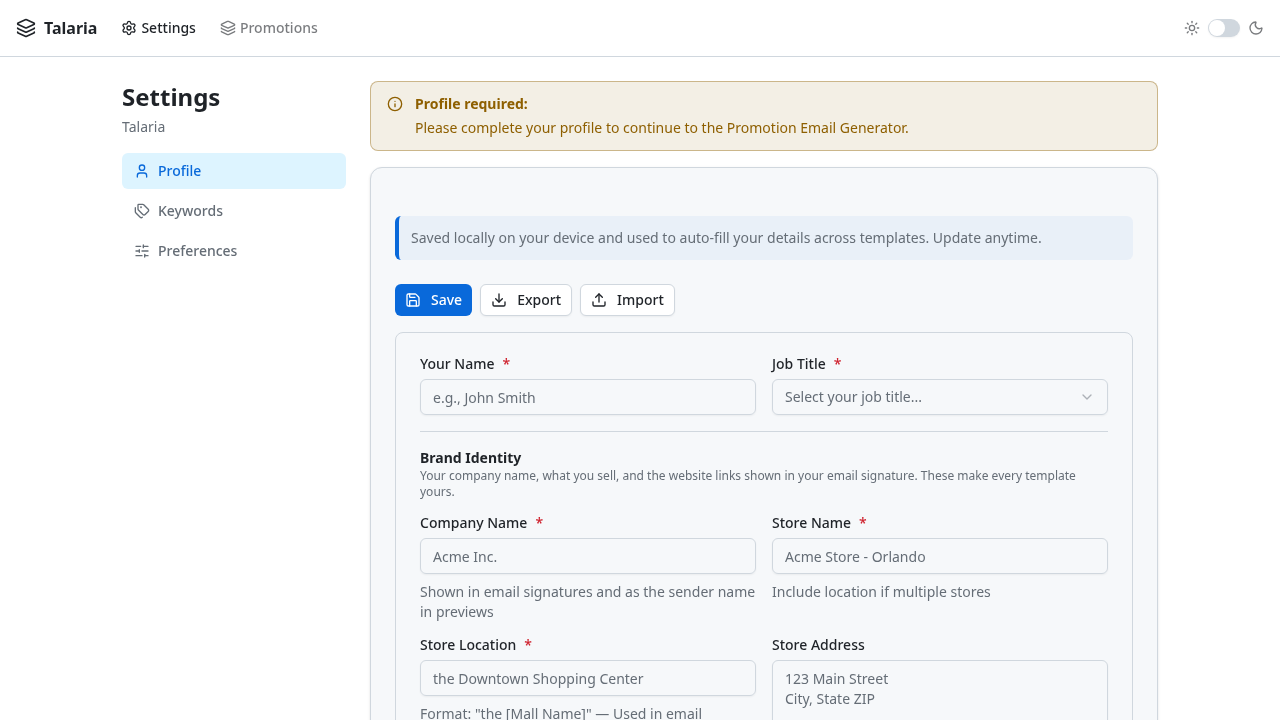
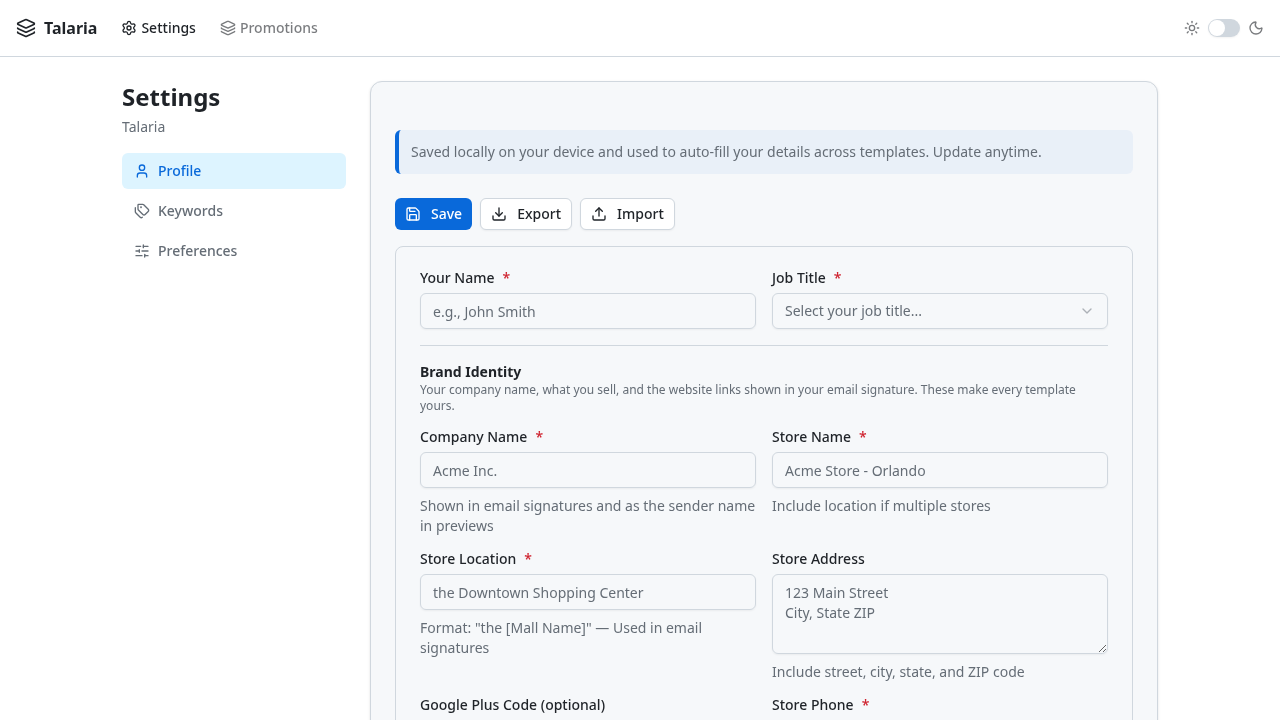
fix(screenshots): seed a profile so the promotion page renders in captures
The promotion builder is behind a profile gate: with no `userProfile` key
in localStorage, PromotionPage redirects to /settings, so both published
screenshots were byte-identical captures of the settings page.

Capture /settings first (empty defaults, the honest fresh-install view),
then seed a clearly fictional profile via addInitScript and capture
/promotion. Assert the final URL is still /promotion and fail loudly if
the gate stays closed.

diff --git a/capture-screenshots.js b/capture-screenshots.js
@@ -3,29 +3,65 @@ import { chromium } from 'playwright';
 const url = 'http://localhost:5173';
 const outDir = 'docs/screenshots';
 
+// The promotion builder is behind a profile gate (PromotionPage redirects to
+// /settings when localStorage has no `userProfile`). Seed a clearly fictional
+// profile — example.com domains and 555 numbers only — so the capture shows
+// the real builder instead of the redirect target.
+const DEMO_PROFILE = {
+  employeeName: 'Alex Rivera',
+  jobTitle: 'Store Manager',
+  companyName: 'Horology Retail Group',
+  storeName: 'Riverside Watches',
+  storeLocation: 'Las Vegas, NV',
+  storeAddress: '1231 Main St, Las Vegas, NV 89101',
+  storePhone: '(702) 555-0142',
+  storeEmail: 'riverside@horologyexample.com',
+  storeHours: 'Mon–Sat 10am–7pm, Sun 11am–6pm',
+  productNoun: 'watch',
+  productNounPlural: 'watches',
+  brandKeywords: ['Riverside'],
+  collectionKeywords: ['Aria', 'Meridian'],
+};
+
 (async () => {
   const browser = await chromium.launch();
   const context = await browser.newContext({ viewport: { width: 1280, height: 720 } });
   const page = await context.newPage();
   const screenshots = [];
-  
-  const pages = [
-    { path: '/promotion', name: 'promotion-builder.png', label: 'Promotion Email Builder' },
-    { path: '/settings', name: 'profile-settings.png', label: 'Profile Settings' },
-  ];
-  
-  for (const p of pages) {
-    try {
-      await page.goto(url + p.path);
-      await page.waitForTimeout(2000);
-      await page.screenshot({ path: outDir + '/' + p.name, fullPage: false });
-      screenshots.push(p.name);
-      console.log('Captured: ' + p.name);
-    } catch (e) {
-      console.error('Error capturing ' + p.name + ': ' + e.message);
+
+  const capture = async (path, name) => {
+    await page.goto(url + path);
+    await page.waitForTimeout(2000);
+    await page.screenshot({ path: outDir + '/' + name, fullPage: false });
+    screenshots.push(name);
+    console.log('Captured: ' + name + ' (url: ' + page.url() + ')');
+  };
+
+  try {
+    // Settings first, with no profile seeded yet — the empty default page is
+    // the honest picture of a fresh install.
+    await capture('/settings', 'profile-settings.png');
+
+    // Seed the profile for every subsequent navigation, then capture the
+    // builder now that the gate opens.
+    await context.addInitScript((profile) => {
+      localStorage.setItem('userProfile', JSON.stringify(profile));
+    }, DEMO_PROFILE);
+
+    await capture('/promotion', 'promotion-builder.png');
+    if (!page.url().includes('/promotion')) {
+      throw new Error(
+        'Profile gate still closed: /promotion redirected to ' +
+          page.url() +
+          ' — the seeded `userProfile` localStorage key was not picked up.'
+      );
     }
+  } finally {
+    await browser.close();
   }
-  
-  await browser.close();
+
   console.log('Done: ' + screenshots.join(', '));
-})();
+})().catch((e) => {
+  console.error(e.message);
+  process.exit(1);
+});
